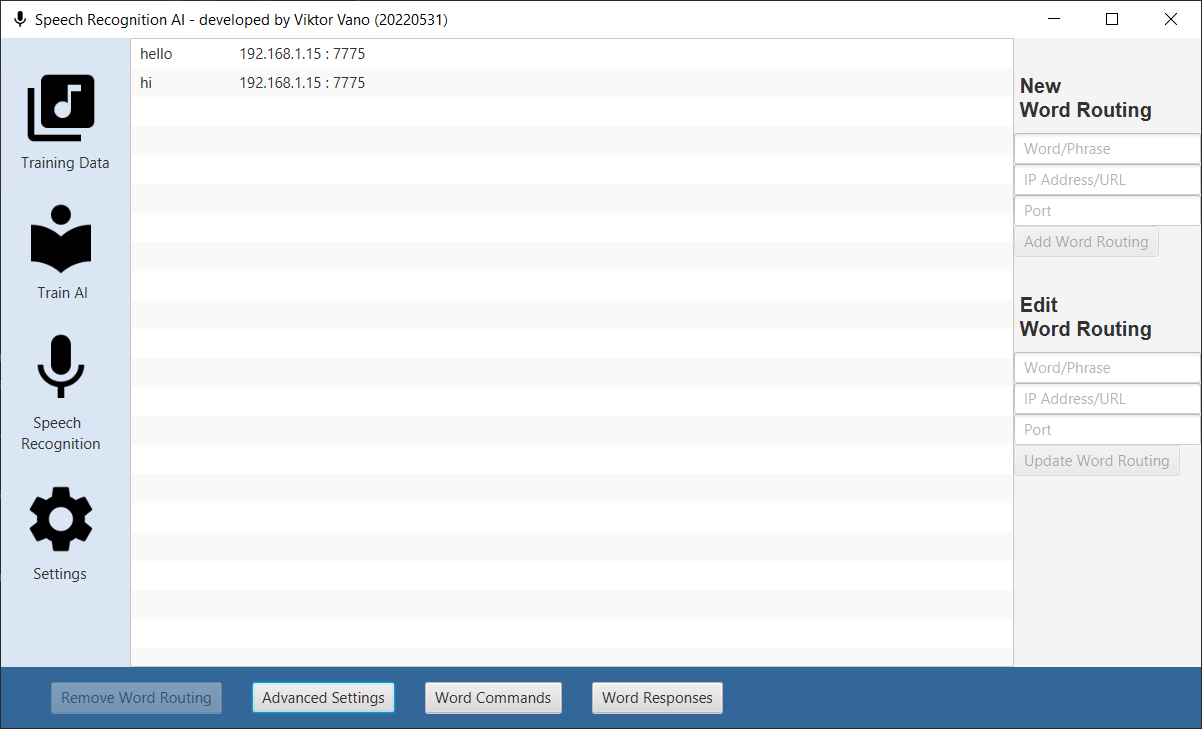
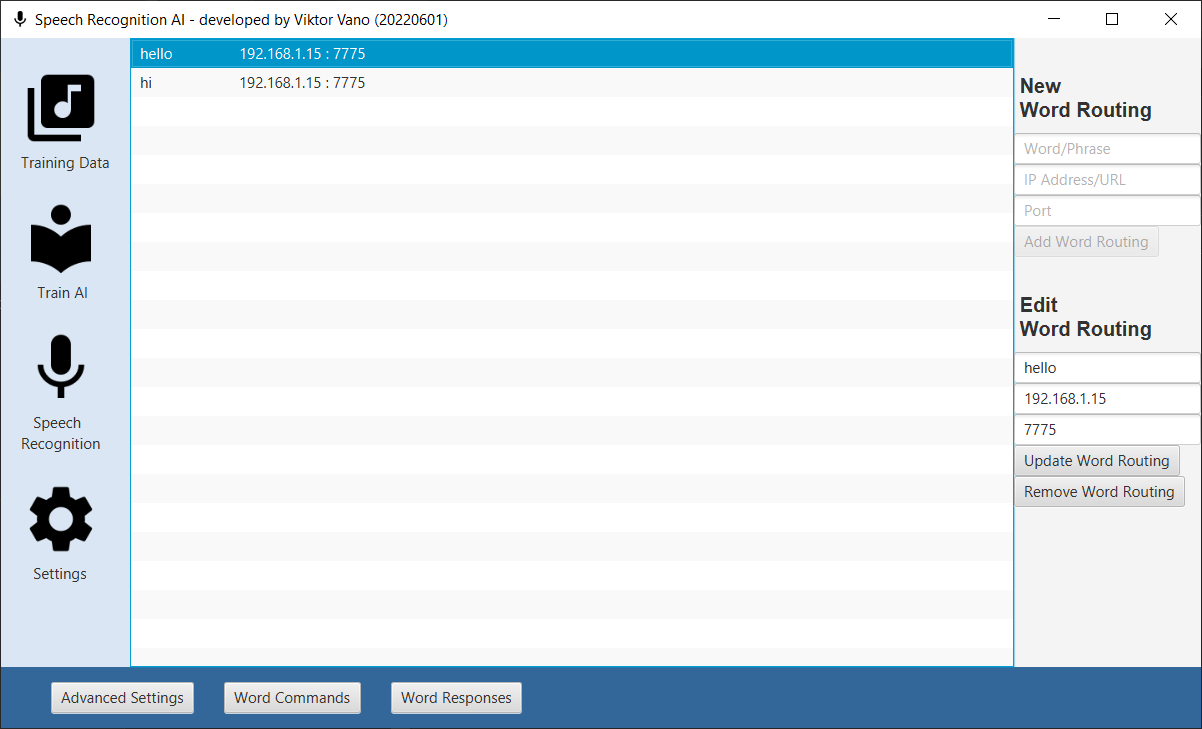
Sixth Release

diff --git a/src/com/ViktorVano/SpeechRecognitionAI/GUI/SpeechRecognitionAI.java b/src/com/ViktorVano/SpeechRecognitionAI/GUI/SpeechRecognitionAI.java
@@ -1027,7 +1027,7 @@ public class SpeechRecognitionAI extends Application {
         vBoxRight.getChildren().add(txtEditAddress);
         vBoxRight.getChildren().add(txtEditPort);
         vBoxRight.getChildren().add(buttonUpdateWordRouting);
-        hBoxBottom.getChildren().add(buttonRemoveWordRouting);
+        vBoxRight.getChildren().add(buttonRemoveWordRouting);
         hBoxBottom.getChildren().add(buttonAdvancedSettings);
         hBoxBottom.getChildren().add(buttonWordCommands);
         hBoxBottom.getChildren().add(buttonWordResponses);
@@ -1048,7 +1048,7 @@ public class SpeechRecognitionAI extends Application {
         vBoxRight.getChildren().remove(txtEditAddress);
         vBoxRight.getChildren().remove(txtEditPort);
         vBoxRight.getChildren().remove(buttonUpdateWordRouting);
-        hBoxBottom.getChildren().remove(buttonRemoveWordRouting);
+        vBoxRight.getChildren().remove(buttonRemoveWordRouting);
         hBoxBottom.getChildren().remove(buttonAdvancedSettings);
         hBoxBottom.getChildren().remove(buttonWordCommands);
         hBoxBottom.getChildren().remove(buttonWordResponses);

diff --git a/src/com/ViktorVano/SpeechRecognitionAI/Miscellaneous/Variables.java b/src/com/ViktorVano/SpeechRecognitionAI/Miscellaneous/Variables.java
@@ -6,7 +6,7 @@ import java.util.ArrayList;
 
 public class Variables {
 
-    public static int versionNumber = 20220531;
+    public static int versionNumber = 20220601;
 
     public static int recorderThreshold = 500;
     public static int wordThreshold = 500;
